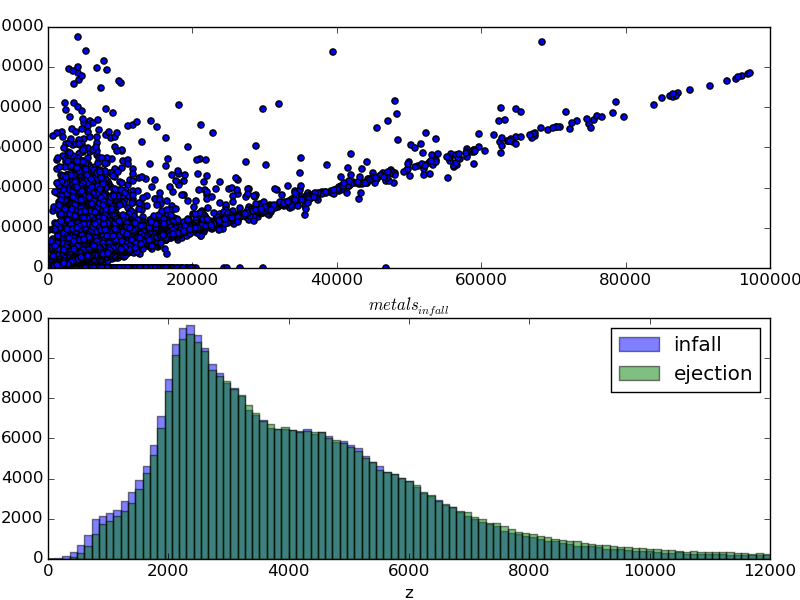
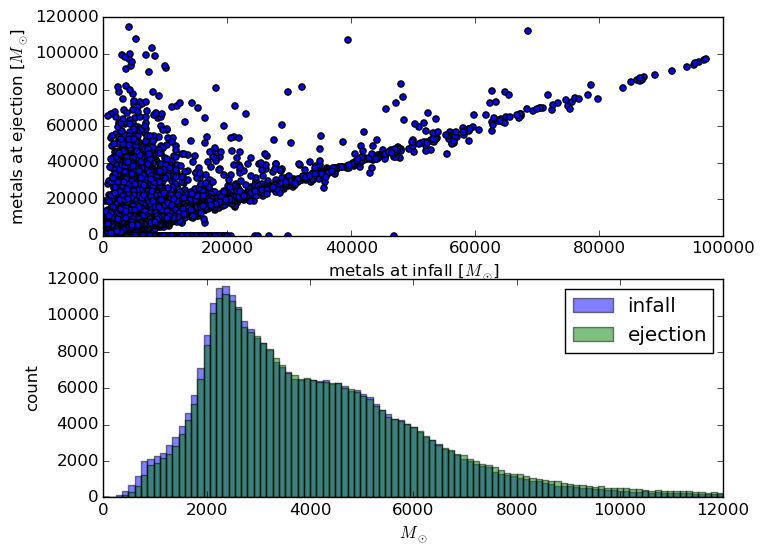
improve metals

diff --git a/1/hist/metals.py b/1/hist/metals.py
@@ -19,15 +19,15 @@ metals_ejection = [item for sublist in metals_ejection for item in sublist]
 metals_infall = [item for sublist in metals_infall for item in sublist]
 
 fig, ax = plt.subplots(2)
-plt.tight_layout()
-ax[0].set_xlabel("$T_{infall}$")
-ax[0].set_ylabel("$T_{ejection}$")
-ax[0].set_xlim((-1e6, 2.1e7))
-ax[0].set_ylim((-1e6, 2e7))
+#plt.tight_layout()
+ax[0].set_xlabel("metals at infall [$M_{\odot}$]")
+ax[0].set_ylabel("metals at ejection [$M_{\odot}$]")
+ax[0].set_xlim((0, 1e5))
+ax[0].set_ylim((0, 1.2e5))
 ax[0].scatter(s.gas['metals_at_infall'][s.gas['num_recycled'] > -1], s.gas['metals_at_ejection'][s.gas['num_recycled'] > -1])
 
 ax[1].set_ylabel("count")
-ax[1].set_xlabel("z")
+ax[1].set_xlabel("$M_{\odot}$")
 ax[1].hist(metals_infall, bins=np.linspace(0, 1.2e4, 100), alpha=.5, label='infall')
 ax[1].hist(metals_ejection, bins=np.linspace(0, 1.2e4, 100), alpha=.5, label='ejection')
 plt.legend(loc='best')
